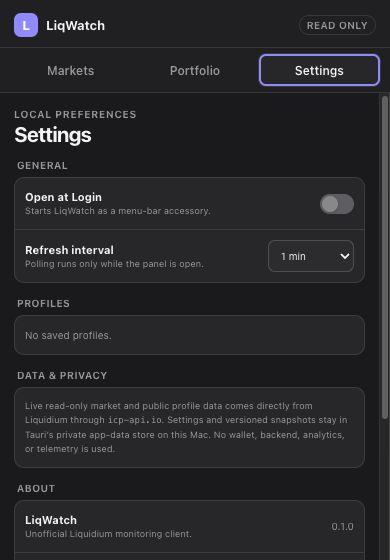
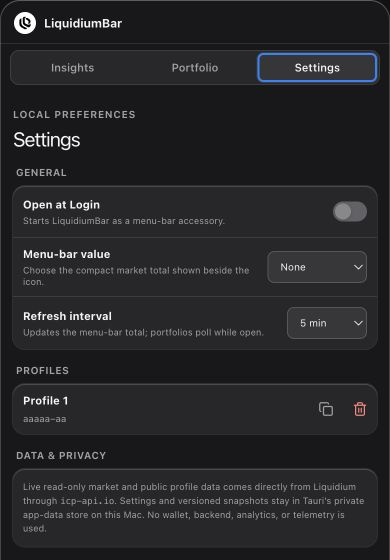
docs: simplify readme and refresh product media

Changed region(s): [[0.0, 0.0, 1.0, 0.9714], [0.6769, 0.4857, 0.7077, 0.5161], [0.0308, 0.9714, 0.0615, 1.0]]

diff --git a/README.md b/README.md
@@ -1,89 +1,51 @@
 # LiquidiumBar
 
-LiquidiumBar is an unofficial, read-only Liquidium monitor for the macOS menu bar. It shows live lending markets and the positions associated with public Liquidium profile principals without connecting a wallet or offering transactions.
+LiquidiumBar is an unofficial, read-only Liquidium monitor for the macOS menu bar. See protocol liquidity at a glance and monitor public positions without connecting a wallet or signing anything.
 
-The app is built with Tauri 2, React, TypeScript, TanStack Query, [Dither Kit](https://www.tripwire.sh/dither-kit), [Web3 Icons](https://web3icons.io), and `@liquidium/client@0.5.0`. Dither Kit is installed from its official source registry and tracked by `dither-kit.json`. LiquidiumBar has no backend, analytics, telemetry, signing, or transaction path.
-
-## Screenshots
-
-| Protocol insights | Portfolio |
-| --- | --- |
-| ![Live markets](docs/screenshots/markets.png) | ![Populated portfolio fixture](docs/screenshots/portfolio.png) |
-
-| Empty portfolio | Settings |
-| --- | --- |
-| ![Live empty portfolio](docs/screenshots/portfolio-empty.png) | ![Settings](docs/screenshots/settings.png) |
-
-The populated portfolio screenshot uses a development-only fixture to demonstrate risk and reserve states; it is not live account data. Additional captures cover [onboarding](docs/screenshots/portfolio-onboarding.png), [loading](docs/screenshots/loading.png), and [network failure](docs/screenshots/error.png).
+<p align="center">
+  <img src="docs/liquidiumbar-demo.gif" alt="LiquidiumBar switching between Insights, Portfolio, and Settings" width="390">
+</p>
 
 ## What it does
 
-- Runs as a 390×560 borderless macOS menu-bar panel with a monochrome template icon, accessory activation policy, tray-relative positioning, focus-loss hiding, and one reusable window.
-- Shows a user-selected compact Supplied, Borrowed, or Available total beside the menu-bar icon—with no label—using the cached snapshot immediately at launch and quietly refreshing market data in the background.
-- Opens directly to a compact Insights view with a Numbers mode for protocol totals and per-pool USD values. Graphs mode shows the totals row first, the supplied-market composition donut second, and supplied-versus-borrowed bars third. Detailed statistics stay on Liquidium's official Insights page.
-- Uses a supplied-position composition pie for portfolios, with the persistent Graphs/Numbers switch exposing exact risk and APR figures when needed.
-- Accepts a profile principal or linked Ethereum/Bitcoin wallet address, stores local profile labels, and supports profile switching, rename, removal, copy, privacy mode, and empty/error states.
-- Shows supplied and borrowed value, collateral/risk metrics, derived health factor, weighted supply/borrow/net APR, and reserve rows when the SDK supplies the required inputs.
-- Persists settings and versioned normalized snapshots with explicit `bigint` encoding so the last successful data remains available after restart or a refresh failure.
-- The menu bar shows only the LiquidiumBar icon by default. Users can optionally display supplied, borrowed, or available value; market totals refresh in the background only when a value is selected. Portfolio polling runs only while the panel is open. Query data becomes stale after 30 seconds; selectable polling intervals are 1, 2, or 5 minutes, with 5 minutes as the default.
+- Shows supplied, borrowed, and available liquidity across Liquidium markets.
+- Displays market composition and supplied-versus-borrowed charts.
+- Monitors a Liquidium profile from its principal or a linked Ethereum/Bitcoin address.
+- Shows portfolio composition, balances, APR, LTV, and health factor.
+- Optionally places a compact market total beside the macOS menu-bar icon.
+- Stores settings and cached snapshots locally. No backend, analytics, telemetry, or transactions.
 
-## Architecture and data boundary
+## Screenshots
 
-```text
-macOS tray → Tauri window → React + TanStack Query
-                              ↓
-                     LiquidiumReadAdapter
-                              ↓
-                @liquidium/client@0.5.0
-                              ↓
-                       https://icp-api.io
-```
+<p align="center">
+  <img src="docs/screenshots/insights.png" alt="LiquidiumBar Insights" width="31%">
+  <img src="docs/screenshots/portfolio.png" alt="LiquidiumBar Portfolio" width="31%">
+  <img src="docs/screenshots/settings.png" alt="LiquidiumBar Settings" width="31%">
+</p>
 
-The stable SDK dependency is isolated behind `LiquidiumReadAdapter`. The adapter constructs `new LiquidiumClient({ timeoutMs: 30_000 })` and calls only:
+## Run locally
 
-- `client.market.listPools()`
-- `client.market.getAssetPrices()`
-- `client.positions.getUserPositionSummary(profileId)`
-- `client.positions.getUserReserves(profileId)`
-- `client.accounts.getProfileId(walletAddress)`
-
-Application contracts use scaled `bigint` amounts and ratios. Values are converted to JavaScript numbers only at the final display boundary. Profile syntax is checked with the explicitly pinned `@icp-sdk/core@5.4.0` principal implementation.
-
-Rates are labeled APR. LiquidiumBar does not invent APY or compounding assumptions. Weighted and net APR are shown only when every required rate and price exists. Health factor is derived from liquidation-threshold and current-LTV basis points; the SDK's raw health-factor field is intentionally ignored because version 0.5.0 does not document its scale reliably.
-
-See [SDK capabilities](docs/SDK_CAPABILITIES.md), [compatibility results](docs/COMPATIBILITY.md), and [security and storage](docs/SECURITY.md) for the detailed contract.
-
-## Develop and verify
-
-Requirements:
-
-- macOS 12 or newer
-- Node.js 22 or newer
-- pnpm 11.5.1
-- A stable Rust toolchain with the Apple build tools
+Requires macOS, Node.js 22+, pnpm, Rust, and the Apple build tools.
 
 ```sh
 pnpm install --frozen-lockfile
 pnpm tauri dev
 ```
 
-Run the complete automated verification suite:
+Create a release build with:
 
 ```sh
-pnpm typecheck
-pnpm lint
-pnpm test
-pnpm build
-cargo fmt --manifest-path src-tauri/Cargo.toml --check
-cargo clippy --manifest-path src-tauri/Cargo.toml --all-targets -- -D warnings
-cargo test --manifest-path src-tauri/Cargo.toml
 pnpm tauri build
 ```
 
-The release build produces an `.app` and `.dmg` under `src-tauri/target/release/bundle/`. Developer ID signing and notarization require external Apple credentials and are not performed by this repository. Follow [release guidance](docs/RELEASE.md).
+The `.app` and `.dmg` are written to `src-tauri/target/release/bundle/`.
 
-## Known data limitations
+## Project notes
 
-SDK 0.5.0 does not provide a reliable contract for APY, compounding cadence, per-position collateral flags, price timestamps, human market names/icons, the raw health-factor scale, or profile-existence detection. A valid principal with no reserves—including `aaaaa-aa`—is shown as **No active positions**; LiquidiumBar cannot distinguish that from an unregistered profile.
+- Liquidium SDK: `@liquidium/client@0.5.0`
+- [SDK capabilities](docs/SDK_CAPABILITIES.md)
+- [Compatibility results](docs/COMPATIBILITY.md)
+- [Security and local storage](docs/SECURITY.md)
+- [Release guidance](docs/RELEASE.md)
 
-This project is unofficial and is not affiliated with, endorsed by, or supported by Liquidium. Information may be delayed, incomplete, or incorrect and is not financial advice. Verify important values in official Liquidium interfaces before acting.
+LiquidiumBar is unofficial and is not affiliated with, endorsed by, or supported by Liquidium. Information may be delayed, incomplete, or incorrect and is not financial advice.